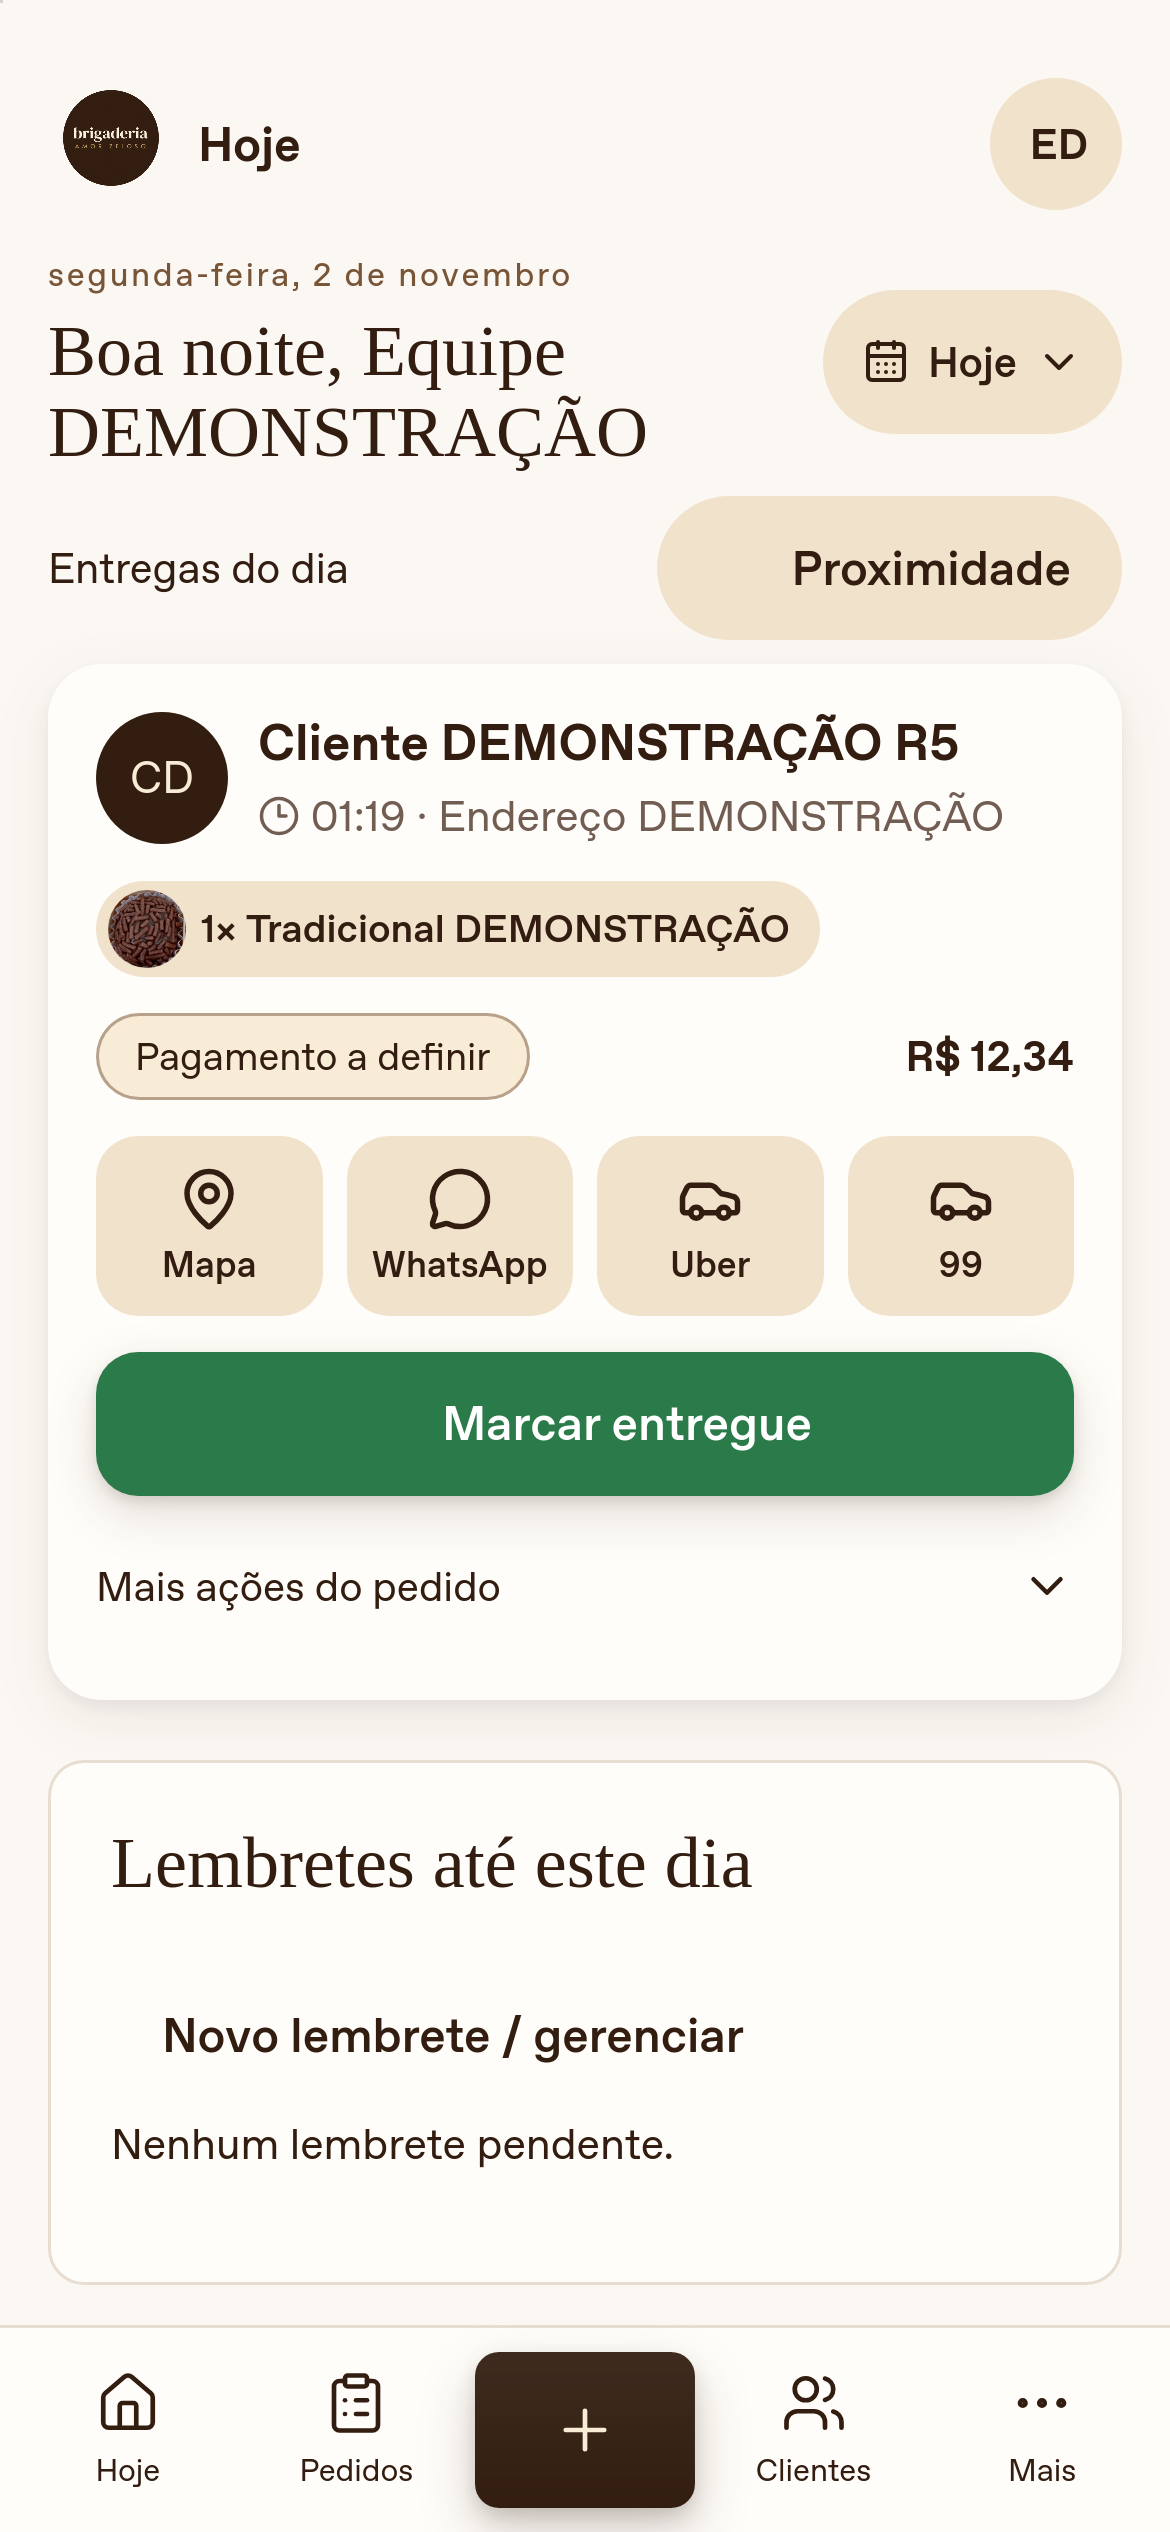
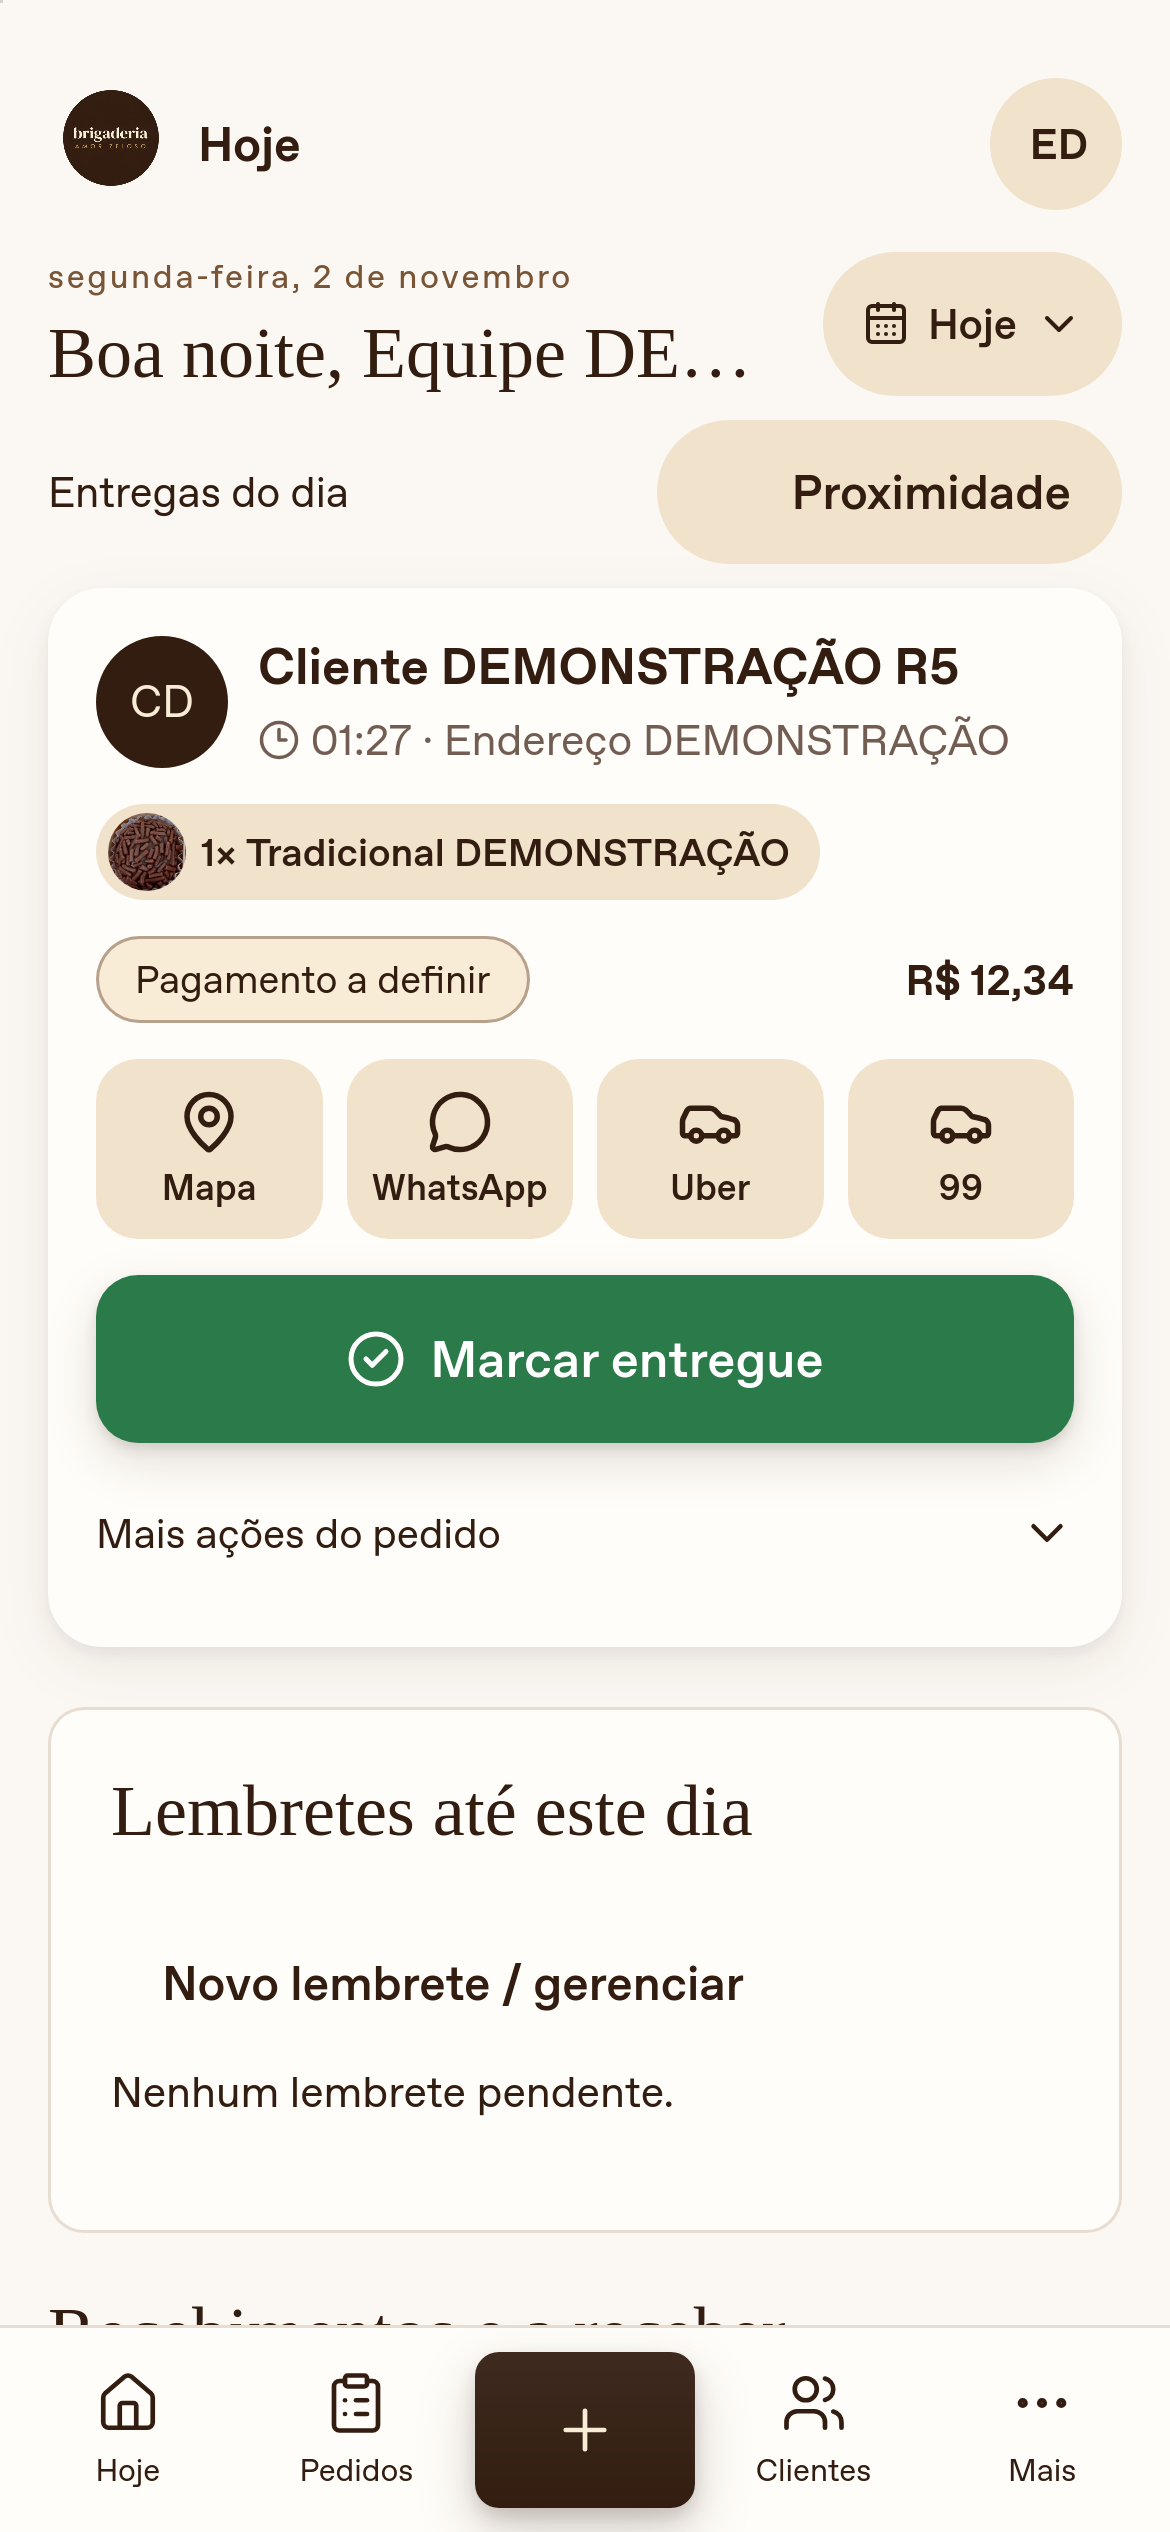
test: guard mobile content space and reference layouts (R5-8)

diff --git a/tests/e2e/review-r5-flows.spec.js b/tests/e2e/review-r5-flows.spec.js
@@ -30,6 +30,8 @@ test('R5 telas móveis com ações compartilhadas', async ({
           path: `docs/colaboracao/capturas/${process.env.R8_CAPTURE ? 'r8' : 'r5'}-depois-${name}.png`,
         });
     };
+    const consoleErrors = [];
+    p.on('pageerror', (e) => consoleErrors.push(e.message));
     await p.goto(t.url + '/api/access/start');
     await expect(p.locator('.order-card')).toBeVisible();
     await expect(
@@ -43,6 +45,17 @@ test('R5 telas móveis com ações compartilhadas', async ({
       expect((await reminder.boundingBox()).y).toBeGreaterThan(
         (await p.locator('.order-card').first().boundingBox()).y,
       );
+    const fallback = await p.addStyleTag({
+      content: ':root {font-family:"DejaVu Sans", sans-serif}',
+    });
+    expect(
+      (await p.locator('.order-card').first().boundingBox()).y,
+    ).toBeLessThanOrEqual(200);
+    await fallback.evaluate((e) => e.remove());
+    await testInfo.attach('Hoje-390x844', {
+      body: await p.screenshot(),
+      contentType: 'image/png',
+    });
     await capture(process.env.R8_CAPTURE ? 'hoje-confirmado' : 'hoje');
     await p.goto(t.url + '/gestao/pedidos?novo=1');
     await p
@@ -63,6 +76,10 @@ test('R5 telas móveis com ações compartilhadas', async ({
       expect(box.y).toBeGreaterThanOrEqual(0);
       expect(box.y + box.height).toBeLessThanOrEqual(footer.y);
     }
+    await testInfo.attach('Sabores-390x844', {
+      body: await p.screenshot(),
+      contentType: 'image/png',
+    });
     await capture('sabores');
     await p.locator('.flavor-add').first().click();
     await p.getByRole('button', { name: /Revisar pedido/ }).click();
@@ -131,6 +148,11 @@ test('R5 telas móveis com ações compartilhadas', async ({
         expect(Math.abs(boxes[2].y - boxes[3].y)).toBeLessThan(1);
         expect(boxes[0].width).toBeCloseTo(boxes[1].width, 0);
       }
+      expect(
+        await p.evaluate(
+          () => document.documentElement.scrollWidth <= window.innerWidth,
+        ),
+      ).toBe(true);
       await capture(name);
       if (path === 'clientes') {
         await expect(p.getByRole('dialog')).toBeHidden();
@@ -201,6 +223,7 @@ test('R5 telas móveis com ações compartilhadas', async ({
         await expect(p).not.toHaveURL(/novo=1/);
       }
     }
+    expect(consoleErrors).toEqual([]);
   } finally {
     await c.close();
     await t.dispose();

diff --git a/tests/e2e/review-r8.spec.js b/tests/e2e/review-r8.spec.js
@@ -85,6 +85,7 @@ test('R8 cartão compacto, quatro atalhos e entrega validada no servidor', async
     await expect(p.locator('.compact-title')).toHaveText('Hoje');
     const card = p.locator('.order-card').first();
     await expect(card).toBeVisible();
+    expect((await card.boundingBox()).y).toBeLessThanOrEqual(200);
     await expect(card.locator('.delivery-icon-row .az-button')).toHaveCount(4);
     await expect(card.locator('.delivery-flavor img')).toBeVisible();
     await expect(
@@ -95,6 +96,13 @@ test('R8 cartão compacto, quatro atalhos e entrega validada no servidor', async
         .getByRole('button', { name: 'Marcar entregue', exact: true })
         .evaluate((e) => getComputedStyle(e).backgroundColor),
     ).toBe('rgb(43, 122, 73)');
+    expect(
+      (
+        await card
+          .getByRole('button', { name: 'Marcar entregue', exact: true })
+          .boundingBox()
+      ).height,
+    ).toBeGreaterThanOrEqual(56);
     if (process.env.R8_CAPTURE === '1' && info.project.name === 'webkit-mobile')
       await p.screenshot({
         path: 'docs/colaboracao/capturas/r8-depois-hoje.png',

diff --git a/src/features/operations/Today.tsx b/src/features/operations/Today.tsx
@@ -490,6 +490,7 @@ export function Today({
                         <Button
                           className="delivery-complete"
                           variant="success"
+                          icon={<CheckCircle2 size={20} aria-hidden="true" />}
                           size="large"
                           disabled={busy}
                           onClick={() =>

diff --git a/src/styles.css b/src/styles.css
@@ -2065,3 +2065,12 @@ details[open] > .disclosure-summary > .disclosure-chevron {
   word-break: normal;
   hyphens: auto;
 }
+.today-greeting h2 {
+  overflow: hidden;
+  text-overflow: ellipsis;
+  white-space: nowrap;
+}
+.order-card .delivery-complete.az-button {
+  min-height: 56px;
+  font-size: 17px;
+}

diff --git a/design-qa.md b/design-qa.md
@@ -1,0 +1,33 @@
+# QA visual — R8 e ajustes R5 desta rodada
+
+Escopo: componentes pedidos em R8-1…7 e R5-5…8. Não certifica a implementação de todos os fluxos do protótipo: rotas de carro, fotos pessoais, avisos push e prospecção continuam pendentes na R6/R7.
+
+Fonte: `docs/colaboracao/prototipo/index.html`, aberto no Chromium a 390×844. A faixa exclusiva de demonstração e a margem externa foram ocultadas apenas na captura de comparação; o arquivo original não foi alterado. Implementação: capturas `docs/colaboracao/capturas/r8-depois-*`, obtidas com Playwright/WebKit em D1 efêmero, sem dados pessoais reais.
+
+Comparação conjunta: `docs/colaboracao/capturas/r8-comparacao.png`, colunas referência/implementação de Hoje e Clientes. Fonte 390×844 (DPR 1); implementação 1170×2532 (DPR 3), normalizada para 390×844 por coluna. Mesmos temas/estados: operação, entrega pendente e lista de clientes. Conteúdo e quantidade de registros diferem propositalmente: o app usa suas próprias fixtures DEMONSTRAÇÃO. Detalhes de pílulas, ícones e tipografia são legíveis na prancha em escala 1:1; não foi necessário outro recorte.
+
+## Achados e iterações
+
+- [P2, corrigido] Marcadores nativos apareciam como triângulos emoji: componente Lucide compartilhado, teclado/semântica preservados; capturas de Clientes mostram o chevron.
+- [P2, corrigido] Grade de clientes estreita e título duplicado: uma coluna no celular e h1 visual oculto, mantido semanticamente. Busca e ações de conta permanecem disponíveis. O protótipo ainda repete o título de Clientes; a instrução textual R8-2 prevalece.
+- [P2, corrigido] Na CI, o chip reservava espaço de check sem ser selecionável, estreitando a data e deslocando o cartão para y=215. Chip de data tonal, largura flexível e espaçamento explícito; nome longo é truncado visualmente, sem perder o nome acessível. E2E cobre fonte alternativa e limite de 200 px; a CI de 51471c0 aprovou a correção inicial. O limite antigo de 140 px foi substituído por 200 px em razão da saudação da R8 (referência sem faixa de prévia: primeiro cartão próximo de y=189).
+- [P2, corrigido] Ação de entrega precisava de hierarquia inequívoca: linha com quatro atalhos, confirmação verde com ícone e altura mínima explícita de 56 px, ações secundárias recolhidas. Recaptura e E2E WebKit conferiram altura, abertura do mapa, foco e gravação da entrega pelo servidor.
+
+## Superfícies conferidas
+
+- **Tipografia:** tamanhos compactos, nome sem quebra no cartão e rótulos de revisão pequenos em caixa alta. A família sans/Georgia da marca existente foi preservada; não se promete reprodução exata de Figtree/DM Serif carregadas externamente pelo protótipo.
+- **Espaçamento:** cabeçalho de 56 px, quatro ações regulares, cartões de cliente em largura total, indicadores financeiros 2×2 e cinco sabores acima do rodapé em 390×844. Busca e opções da lista ocupam espaço adicional intencional em Clientes.
+- **Cores:** marrom/creme/dourado existentes; verde com contraste AA medido de 5,27:1. Tokens permanecem próximos da referência sem introduzir fornecedores externos.
+- **Imagens:** logo e fotos oficiais existentes, pílulas com foto de sabor e iniciais reais do perfil cadastrado. Avatares pessoais e km/min fictícios da referência não foram copiados; dependem de dados/implementação da R6.
+- **Textos e fluxos:** Mapa/WhatsApp/Uber/99, Quando/Como/Quem leva/Pagamento e datas rápidas. Mapa abre três apps; 99 copia o destino; WhatsApp continua assistido pelo fluxo existente. Regras financeiras/CAS/idempotência mantidas.
+
+Interações verificadas nos E2E: calendário com contagem e mês, data futura sem entrega, voltar para hoje, menu/perfil/ajuda, cadastro cancelável com foto/GPS, escolha/revisão do pedido e entrega/recebimento. Nenhum erro `pageerror` nos fluxos visuais. Não houve ensaio em aparelho físico.
+
+## Checklist e limites
+
+- Componentes desta rodada comparados e capturados novamente após as correções.
+- Diferenças de conteúdo de demonstração, busca adicional, famílias tipográficas existentes e ações secundárias são intencionais, sem afirmação de equivalência pixel a pixel.
+- Refinamento P3: consolidar famílias tipográficas locais e a aparência de módulos ainda não priorizados em uma rodada própria.
+- Pendências funcionais R6/R7 não foram simuladas para preencher capturas.
+
+final result: passed

diff --git a/docs/colaboracao/CODEX_PARA_CLAUDE.md b/docs/colaboracao/CODEX_PARA_CLAUDE.md
@@ -119,6 +119,8 @@ Limitação: validação em navegador simulado, aparelho físico pendente.
 
 ## Histórico
 
+- **2026-11-02 — R5-8:** E2E de espaço em 390×844 cobre primeiro cartão até 200 px conforme precedência R8, fonte alternativa, ausência de overflow, cinco sabores acima do rodapé, largura dos clientes e grade financeira. Anexa Hoje/Sabores ao relatório Playwright; seis E2E passaram nos três projetos. QA visual em design-qa.md e prancha conjunta; ação verde com ícone/altura 56 e nome longo sem aumentar a faixa da saudação. WebKit repetido após refinamento aprovado. CI de 51471c0 aprovou a correção de espaço anterior. Próximo R5-9.
+
 - **2026-11-02 — R5-7:** Tile de Deslocamentos renomeado para Corridas, preservando a rota e todas as funcionalidades. Hifenização pt-BR sem quebra arbitrária nos tiles. Build/tipagem e três E2E com verificação de overflow em Mais e captura aprovados. Próximo R5-8.
 
 - **2026-11-02 — R5-6:** ChoiceChips compartilhado aplicado à condição das vendas e aos eventos da agenda (cinco categorias mais Todos). Busca/lista de clientes e exportação com seis formatos preservadas. Build/tipagem/lint e seis E2E de CSV/ICS/relatórios/agenda aprovados. CI dos commits R8-6/7 revelou data quebrando em duas linhas por diferenças de fonte: chip do calendário deixou de reservar check de seleção e ganhou espaçamento explícito, data com largura flexível e WhatsApp sem quebra. Seis E2E de espaço/calendário passaram localmente com limite 200 preservado; nova CI será conferida. Próximo R5-7.
@@ -216,7 +218,7 @@ Arquivos/aceite: Today, DeliveryActions, Button e API Today (R8-1: cartão compa
 | R5-5          | Entregue; testes/limites no histórico.                                                            |
 | R5-6          | Entregue; testes/limites no histórico.                                                            |
 | R5-7          | Entregue; testes/limites no histórico.                                                            |
-| R5-8          | Pendente.                                                                                         |
+| R5-8          | Entregue; testes/limites no histórico.                                                            |
 | R5-9          | Pendente.                                                                                         |
 | R5-10         | Pendente.                                                                                         |
 | R6            | R6-3/R6-6 cobertos por R8-6; demais pendentes. Mapa parcialmente adiantado, preferência pendente. |
